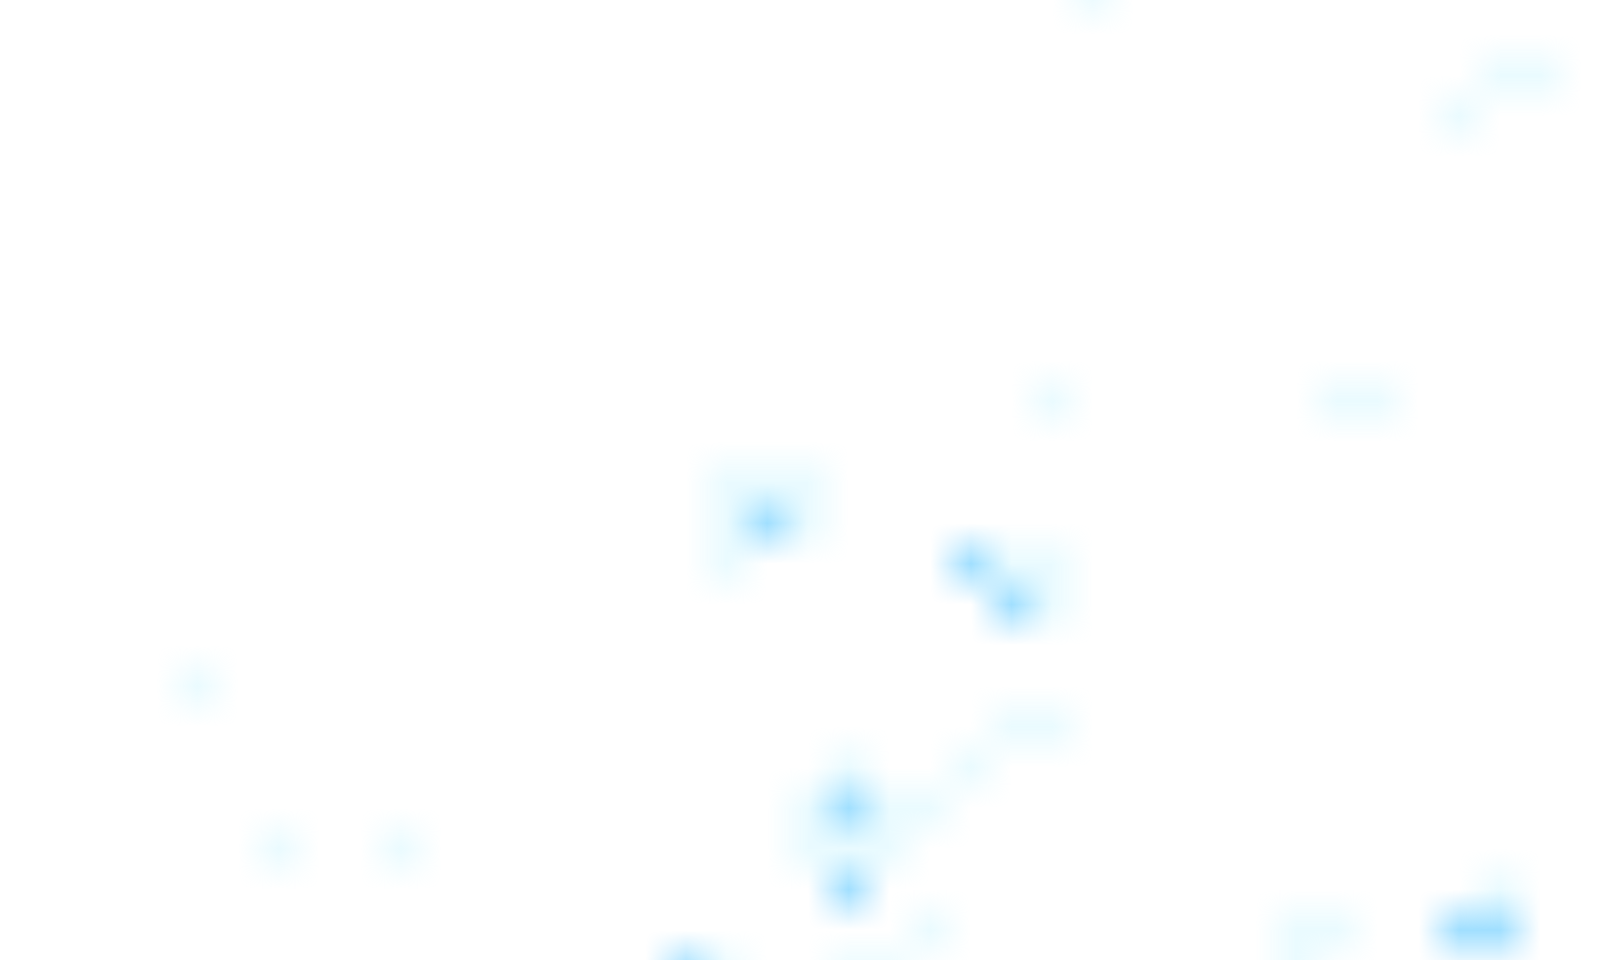
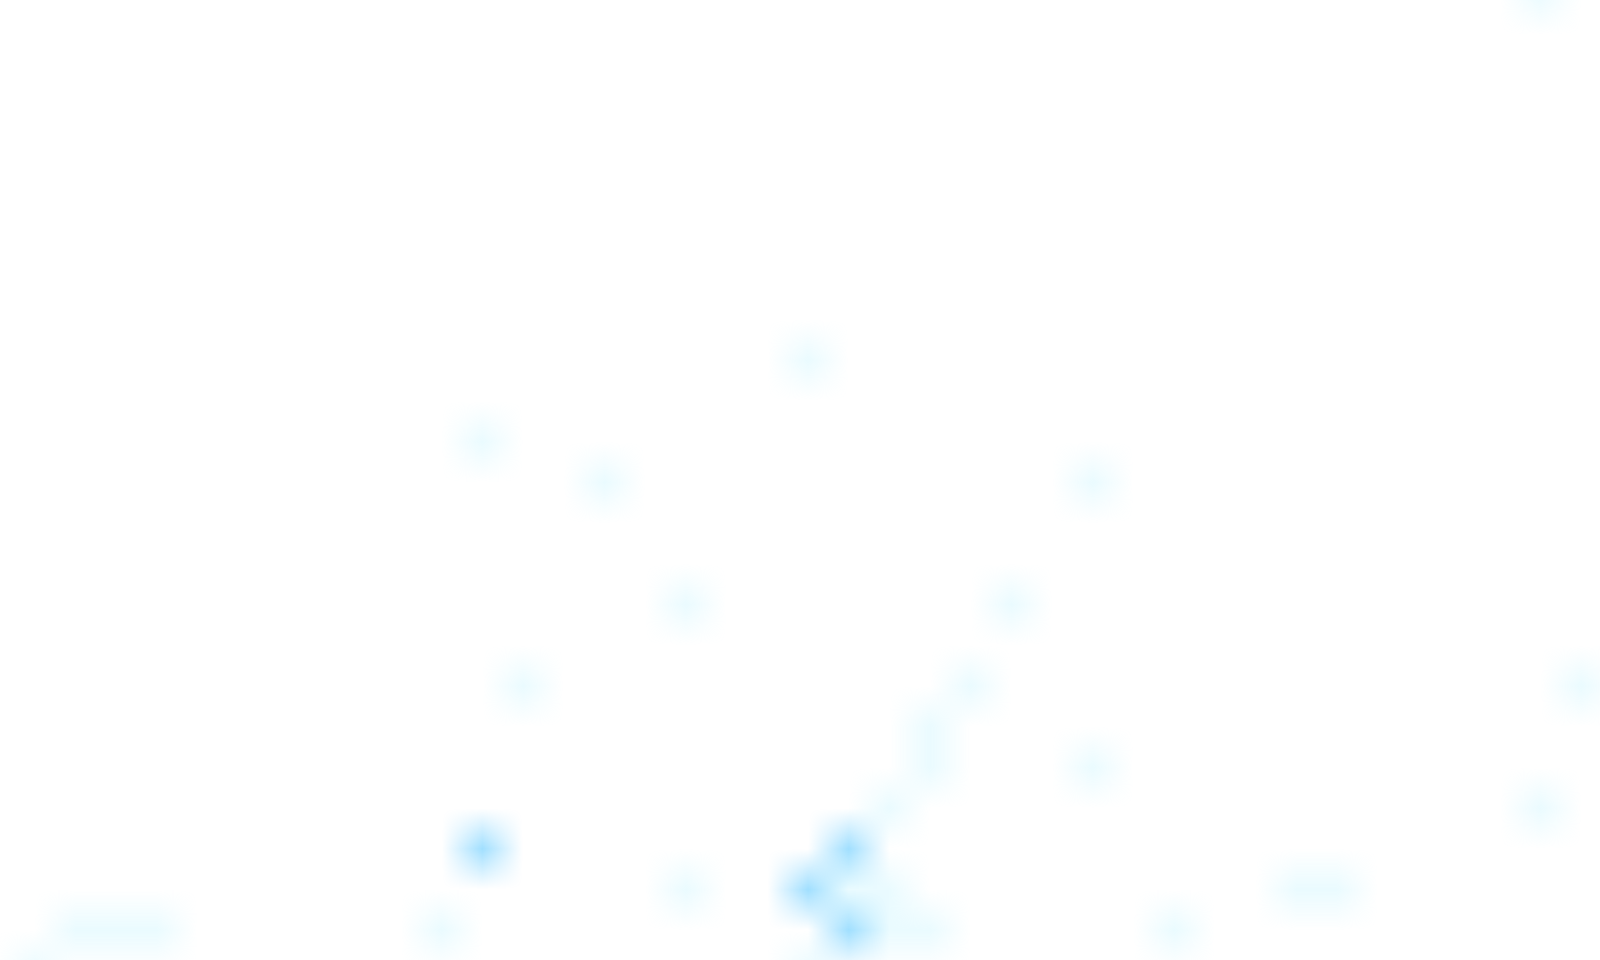
Vyladeni vrstvy oblacnosti

diff --git a/config.py b/config.py
@@ -135,7 +135,7 @@ CLOUDS_SOURCE_EAST = 20.0
 # Vzhled oblačnosti nad mapou.
 CLOUDS_PRODUCT = "vis-ir"
 CLOUDS_MAX_AGE_MINUTES = 45
-CLOUDS_OPACITY = 0.52
+CLOUDS_OPACITY = 0.92
 CLOUDS_GAMMA = 0.95
 CLOUDS_MIN_STRENGTH = 0.010
 CLOUDS_BASE_BRIGHTNESS = 12.0
